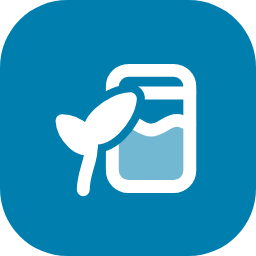
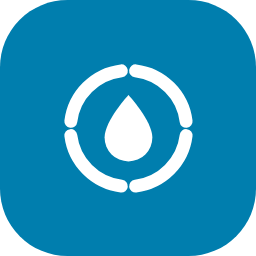
feat(controller): the PHASE Steering Controller app
The app is PHASE Steering Controller in Settings → Apps, its sidebar panel PHASE Steering with
mdi:water-circle, and its repository PHASE Steering in the app store (repository.yaml). Its icon
and logo are pictures of the new mark. The alerts, the log and the options' help say PHASE
Steering, and so does the vitals title where "Name in notifications" was never changed.

The setup wizard now offers PHASE Steering as a room's name. A room left at it was named by
nobody, as one left at Crop Steering System was, so alerts name the zone alone
(DEFAULT_ROOM_NAMES, proven through a real Home Assistant in test_alerts_name_the_zone.py). The
f2_control slug, the options and the state file are as they were.

Changed region(s): [[0.2188, 0.25, 0.7812, 0.7812]]

diff --git a/addons/f2_control/f2_control/controller.py b/addons/f2_control/f2_control/controller.py
@@ -1,5 +1,5 @@
 # -*- coding: utf-8 -*-
-"""Crop Steering Controller: the standalone crop-steering controller (a Home Assistant add-on).
+"""PHASE Steering Controller: the standalone crop-steering controller (a Home Assistant add-on).
 
 The synchronous I/O shell: ONE sync process, plain REST polling of HA, no asyncio, no
 coroutine trap. Imports the pure crop-steering-engine for decisions; this file is
@@ -190,6 +190,10 @@ CONTROLLER_VERSION = read_controller_version()
 # config.yaml's shipped lights option. It matches the facility this was first written for, so a
 # legacy room may rely on it; on a wizard-made room it is a value nobody chose.
 SHIPPED_LIGHTS = (10.0, 22.0)
+
+# The setup wizard's default room names, the old ones too: a room still called one was named by
+# nobody, so notifications leave it out (_room_name). PHASE Steering since 1.0.2.
+DEFAULT_ROOM_NAMES = ("default", "crop steering", "crop steering system", "phase steering")
 
 # A zone with no usable moisture reading, by why: title and the advice that fits. The codes and
 # their full entries live in docs/error-codes.json with every other code.
@@ -663,7 +667,7 @@ def plumbing_hold(hw):
         if needed and not mapped:
             return (
                 f"setup says this room has a {label}, but no {label} switch is mapped - not watering "
-                f"without it; map the {label} in the Crop Steering setup, or change the room's plumbing"
+                f"without it; map the {label} in the PHASE Steering setup, or change the room's plumbing"
             )
         if mapped and not needed:
             return (
@@ -733,7 +737,7 @@ class Controller:
         # notifications still fire), never a fallback to the developer's phone.
         self.notify_service = (o.get("notify_service") or "").strip()
         self.notify_min = float(o.get("notify_min", 30))
-        self.instance_name = o.get("instance_name", "Crop Steering")
+        self.instance_name = o.get("instance_name", "PHASE Steering")
         # External operator holds (tank dosing / manual fill / flush). Facility-specific, so
         # they are an OPTION with an empty default — an install without them never holds on
         # them. Configure your own input_boolean/switch ids to enable.
@@ -775,7 +779,7 @@ class Controller:
 
         # ---- the DEFAULT room ----
         # Hardware (pump/mainline/valves) comes from the integration's published
-        # engine_config descriptor — the operator maps it once in the Crop Steering UI.
+        # engine_config descriptor — the operator maps it once in the PHASE Steering UI.
         # `hardware`/`zones` keys in options.json still win when present, but they are NOT
         # in the Supervisor schema (the UI rejects unknown keys) — they exist for the test
         # harness and hand-built dev setups only. There is NO facility-specific fallback:
@@ -818,15 +822,15 @@ class Controller:
         )
         if self._default_provisional and not default_room.zones:
             log(
-                "config: the Crop Steering integration has not published a room yet, so there is "
+                "config: the PHASE Steering integration has not published a room yet, so there is "
                 "nothing to drive. Add it in Home Assistant (Settings > Devices & services > Add "
-                "integration > Crop Steering). This controller checks every loop and picks the room "
+                "integration > PHASE Steering). This controller checks every loop and picks the room "
                 "up by itself: no restart needed."
             )
         elif not default_room.hw.get("valves"):
             log(
                 "config: default room has NO hardware mapped — holding safe. Map each zone's valve "
-                "(and the pump and mainline, if the room has them) in the Crop Steering integration "
+                "(and the pump and mainline, if the room has them) in the PHASE Steering integration "
                 "(or the add-on `hardware` option)."
             )
         self.rooms = [default_room]
@@ -2409,7 +2413,7 @@ class Controller:
         if plan is None:
             return (
                 f"its feed plan (sensor.crop_steering_{room.prefix}feed_plan) cannot be read: update the "
-                "Crop Steering integration"
+                "PHASE Steering integration"
             )
         if plan.get("problem"):
             return str(plan["problem"]).rstrip(".")
@@ -3008,7 +3012,7 @@ class Controller:
         if not hw["valves"].get(zone):
             return (
                 "no hardware mapped — set this zone's valve (and the pump and mainline, if the room "
-                "has them) in the Crop Steering integration (or the add-on `hardware` option)"
+                "has them) in the PHASE Steering integration (or the add-on `hardware` option)"
             )
         plumbing = plumbing_hold(hw)
         if plumbing:
@@ -3077,7 +3081,7 @@ class Controller:
         if not isinstance(name, str):
             return ""
         name = name.strip()[:40]
-        return "" if name.lower() in ("default", "crop steering", "crop steering system") else name
+        return "" if name.lower() in DEFAULT_ROOM_NAMES else name
 
     def _where(self, room, zone=None):
         """Where a notification is about, the way the operator named it: "Tent · GT4 (Z2)". An
@@ -3151,7 +3155,7 @@ class Controller:
                 f"{name} no longer stops watering by itself: the room's Watering switch does that, "
                 f"its engine switch ({room.enable_flag}). Because {name} ({entity}) is off, the "
                 "controller switched watering off in its place, and does so again while it stays "
-                f"off. Switch {name} back on in Home Assistant, then switch watering on in Crop "
+                f"off. Switch {name} back on in Home Assistant, then switch watering on in PHASE "
                 "Steering → Overview.",
                 room=room,
             )
@@ -3169,7 +3173,7 @@ class Controller:
         log("ALERT", title, "-", " ".join(message.split()))
         message = (
             f"{message}\n\nCode {code}. What it means and what to do: "
-            "Crop Steering → Help → Error codes."
+            "PHASE Steering → Help → Error codes."
         )
         # The 30-minute quiet period starts only once Home Assistant HAS the notification: an alert
         # raised while it is unreachable (the moment a close fails, typically) is raised again on the
@@ -4938,7 +4942,7 @@ class Controller:
 
     def run(self):
         log(
-            f"Crop Steering Controller {CONTROLLER_VERSION} starting | rooms",
+            f"PHASE Steering Controller {CONTROLLER_VERSION} starting | rooms",
             ", ".join(r.slug for r in self.rooms),
             "| notify",
             self.notify_service or "(none)",

diff --git a/tests_ha/test_alerts_name_the_zone.py b/tests_ha/test_alerts_name_the_zone.py
@@ -7,8 +7,12 @@ two halves together: the descriptor a real Home Assistant publishes, read by the
 
 from datetime import datetime
 
+from homeassistant import config_entries
+from homeassistant.data_entry_flow import FlowResultType
+
+from custom_components.crop_steering.plumbing import infer
 from test_configure import _save_map
-from test_real_flow import ZONES
+from test_real_flow import ZONES, _seed
 from test_recreated_room_controller import _see
 from test_setup_entry import _install
 from test_upgrade_in_place import _upgrade
@@ -43,6 +47,30 @@ async def test_fresh_install_a_zone_named_in_the_wizard_is_named_in_its_alert(
     _see(hass, fake)
     c._rediscover(NOW)
     assert c.rooms[0].zone_names == {1: "Bench A"}
+
+
+async def test_fresh_install_a_room_left_at_the_wizards_name_is_not_named(
+    hass, controller_for, monkeypatch
+):
+    """The wizard offers PHASE Steering as the room's name. Left at that, nobody named the room,
+    so the controller names the zone alone, as it does a room left at "Crop Steering System"."""
+    monkeypatch.setitem(ZONES, "zone_1_name", "GT1")
+    _seed(hass)
+    flow = hass.config_entries.flow
+    result = await flow.async_init("crop_steering", context={"source": config_entries.SOURCE_USER})
+    result = await flow.async_configure(result["flow_id"], {})  # the name as offered
+    result = await flow.async_configure(result["flow_id"], {"num_zones": 1})
+    result = await flow.async_configure(result["flow_id"], dict(ZONES))
+    result = await flow.async_configure(result["flow_id"], {"plumbing": infer({})})
+    assert result["type"] is FlowResultType.CREATE_ENTRY, result
+    await hass.async_block_till_done()
+    descriptor = hass.states.get("sensor.crop_steering_engine_config")
+    assert descriptor.attributes["room_name"] == "PHASE Steering"
+    c, fake, _clock = controller_for({"enable_flag": KILL})
+    assert c.rooms[0].room_name == ""
+    c.loop_once(NOW)  # a bare install: never watered, so the watchdog speaks
+    assert any(text.startswith("GT1 (Z1): ") for text in _texts(fake)), _texts(fake)
+    assert not any("PHASE Steering ·" in text for text in _texts(fake)), _texts(fake)
 
 
 async def test_upgrade_in_place_old_installs_get_their_names_or_the_number(

diff --git a/addons/f2_control/tests/test_error_codes.py b/addons/f2_control/tests/test_error_codes.py
@@ -23,7 +23,7 @@ pytestmark = pytest.mark.usefixtures("no_blind_grace")
 
 NOW = datetime(2026, 9, 21, 14, 0, 0)
 OPTIONS = {"num_zones": 3, "enable_flag": "input_boolean.f2_control_enabled"}
-FOOTER = "Code {}. What it means and what to do: Crop Steering → Help → Error codes."
+FOOTER = "Code {}. What it means and what to do: PHASE Steering → Help → Error codes."
 
 
 def _alerts(states, options=OPTIONS):
@@ -149,9 +149,10 @@ def test_the_room_is_called_what_the_operator_called_it():
 
 def test_one_unnamed_room_says_nothing_about_the_room():
     """UPGRADE IN PLACE and FRESH: an older integration publishes no room_name, the wizard's
-    default is "Crop Steering" (or "Crop Steering System"), and anything else may be rubbish.
-    None of them is a name anybody chose, and "default" is never shown for the only room."""
-    for name in (None, "", "  ", "Crop Steering", "Crop Steering System", "default", 7):
+    default is "PHASE Steering" (before 1.0.2 "Crop Steering" or "Crop Steering System"), and
+    anything else may be rubbish. None of them is a name anybody chose, and "default" is never
+    shown for the only room."""
+    for name in (None, "", "  ", "PHASE Steering", "Crop Steering", "Crop Steering System", "default", 7):
         states = _room(2)
         states["sensor.crop_steering_vwc_zone_2"] = ("unavailable", {})
         if name is None:

diff --git a/addons/f2_control/tests/test_retired_switches.py b/addons/f2_control/tests/test_retired_switches.py
@@ -48,7 +48,7 @@ def test_an_off_one_switches_watering_off_in_its_place(entity, name):
     assert len(_engine_offs(fake)) == 1
     (note,) = _cs208(fake)
     assert note["title"] == f"{name} is off, so watering was switched off (CS-208)"
-    assert entity in note["message"] and "Crop Steering → Overview" in note["message"]
+    assert entity in note["message"] and "PHASE Steering → Overview" in note["message"]
     # Home Assistant may not read OFF yet this pass: the gate holds on the carried names meanwhile.
     room._retired_off = [name]
     fake.set_state(KILL, "on")

diff --git a/addons/f2_control/DOCS.md b/addons/f2_control/DOCS.md
@@ -1,10 +1,10 @@
-# Crop Steering Controller
+# PHASE Steering Controller
 
-This companion app runs the P0–P3 irrigation decision loop and sequences mapped pump/valve entities. Install the Crop Steering integration first; it owns room configuration, sensor mapping and strategy storage.
+This companion app runs the P0–P3 irrigation decision loop and sequences mapped pump/valve entities. Install the PHASE Steering integration first; it owns room configuration, sensor mapping and strategy storage.
 
 ## Install and configure
 
-Follow the [installation guide](https://github.com/Chill-Division/HA-Irrigation-Strategy/blob/main/docs/INSTALL.md). After installing this app, review Configuration, start it, and open the integration's **Crop Steering** sidebar page. The ingress dashboard is also available. Both serve the same native workspace.
+Follow the [installation guide](https://github.com/Chill-Division/HA-Irrigation-Strategy/blob/main/docs/INSTALL.md). After installing this app, review Configuration, start it, and open the integration's **PHASE Steering** sidebar page. The ingress dashboard is also available. Both serve the same native workspace.
 
 Use **Settings → Rooms & hardware** for mapping and per-zone sizing. Keep engines off while commissioning. Fresh installations create engine controls; existing mapped enable flags are preserved. The legacy default-room helper may still be input_boolean.f2_control_enabled. The room descriptor/heartbeat identifies the actual flag; do not create a second one blindly.
 
@@ -36,4 +36,4 @@ The app's **Log** tab has a line a minute for every zone, each dated and named a
 
 Update the integration and this app together. Use **Update** or **Rebuild** to include new Python code; restarting an old image does not rebuild it. Preserve persistent data and export strategies before upgrades. See the installation guide for rollback instructions.
 
-The display name is Crop Steering Controller. The existing f2_control slug remains stable for upgrade compatibility. The app and the integration carry one version number: run the same release of both. The dashboard sidebar shows both, as reported by the running parts. Local browser/unit checks do not constitute a live HA installation test.
+The display name is PHASE Steering Controller. The existing f2_control slug remains stable for upgrade compatibility. The app and the integration carry one version number: run the same release of both. The dashboard sidebar shows both, as reported by the running parts. Local browser/unit checks do not constitute a live HA installation test.

diff --git a/addons/f2_control/CHANGELOG.md b/addons/f2_control/CHANGELOG.md
@@ -1,3 +1,7 @@
+# Unreleased
+
+- Crop Steering is now PHASE Steering (Precision Hydration And Steering Engine), with a new icon. No change to how the controller waters.
+
 # 1.0.1
 
 Pair with integration 1.0.1.
